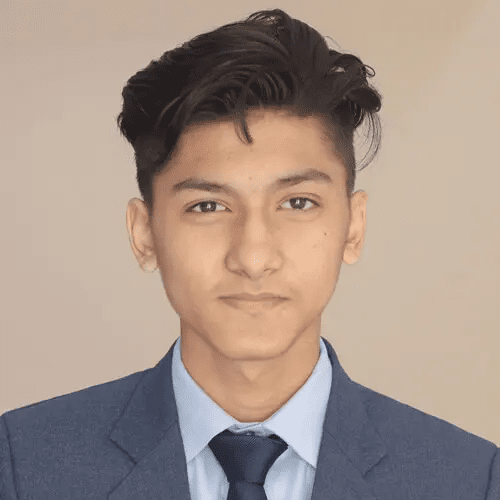
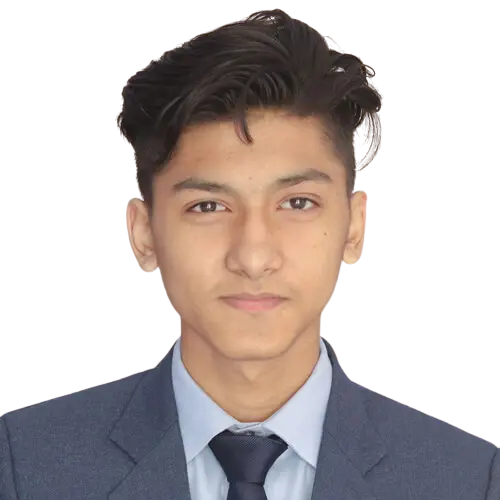
refactor: remove hero illustration
refactor: add Rahul image

diff --git a/components/Landing/Hero/index.js b/components/Landing/Hero/index.js
@@ -2,10 +2,15 @@ import React, { useEffect, useState } from "react";
 import Link from "@components/Link/Link";
 import isScreenLargerThan from "@utils/screenSize";
 import UsabilityIllustration from "@svgs/usability_testing.svg";
-import UsabilityIllustrationDesktop from "@svgs/usability_testing_desktop.svg";
 import { showLoader } from "@utils/loader";
+import Picture from "@components/Picture";
 
 export default function Hero() {
+  const source = {
+    png: "images/thatsme.png",
+    default: "images/thatsme.png",
+  };
+
   const tagline = (
     <>
       I Improvise <br />
@@ -60,7 +65,13 @@ export default function Hero() {
           </div>
 
           {illustration === "large" ? (
-            <UsabilityIllustrationDesktop className="hero__illustration" />
+            <Picture
+              className="hero__image"
+              source={source}
+              alt="Rahul Dahal Smiling to the camera"
+              width="500px"
+              height="500px"
+            />
           ) : (
             <UsabilityIllustration className="hero__illustration" />
           )}

diff --git a/components/Landing/Hero/hero.scss b/components/Landing/Hero/hero.scss
@@ -4,6 +4,7 @@
   margin-top: 7vh;
   padding: var(--padding-400);
   padding-top: 20vh;
+  padding-bottom: 5vh;
   min-height: 90vh;
   overflow: hidden;
   clip-path: var(--clip-path);
@@ -22,6 +23,11 @@
     position: relative;
     z-index: 2;
   }
+
+  &__heading {
+    margin-right: 8rem;
+  }
+
   h4,
   h3,
   h2 {
@@ -38,7 +44,7 @@
   .contentsWrap {
     display: flex;
     align-items: flex-end;
-    justify-content: space-between;
+    justify-content: flex-start;
   }
 
   &__subheading {
@@ -77,6 +83,11 @@
   }
   &__cta .link:last-child::before {
     content: "\f0ae";
+  }
+
+  &__image img {
+    mask: url("/svgs/blob.svg") no-repeat;
+    background: var(--white);
   }
 
   &__illustration {
